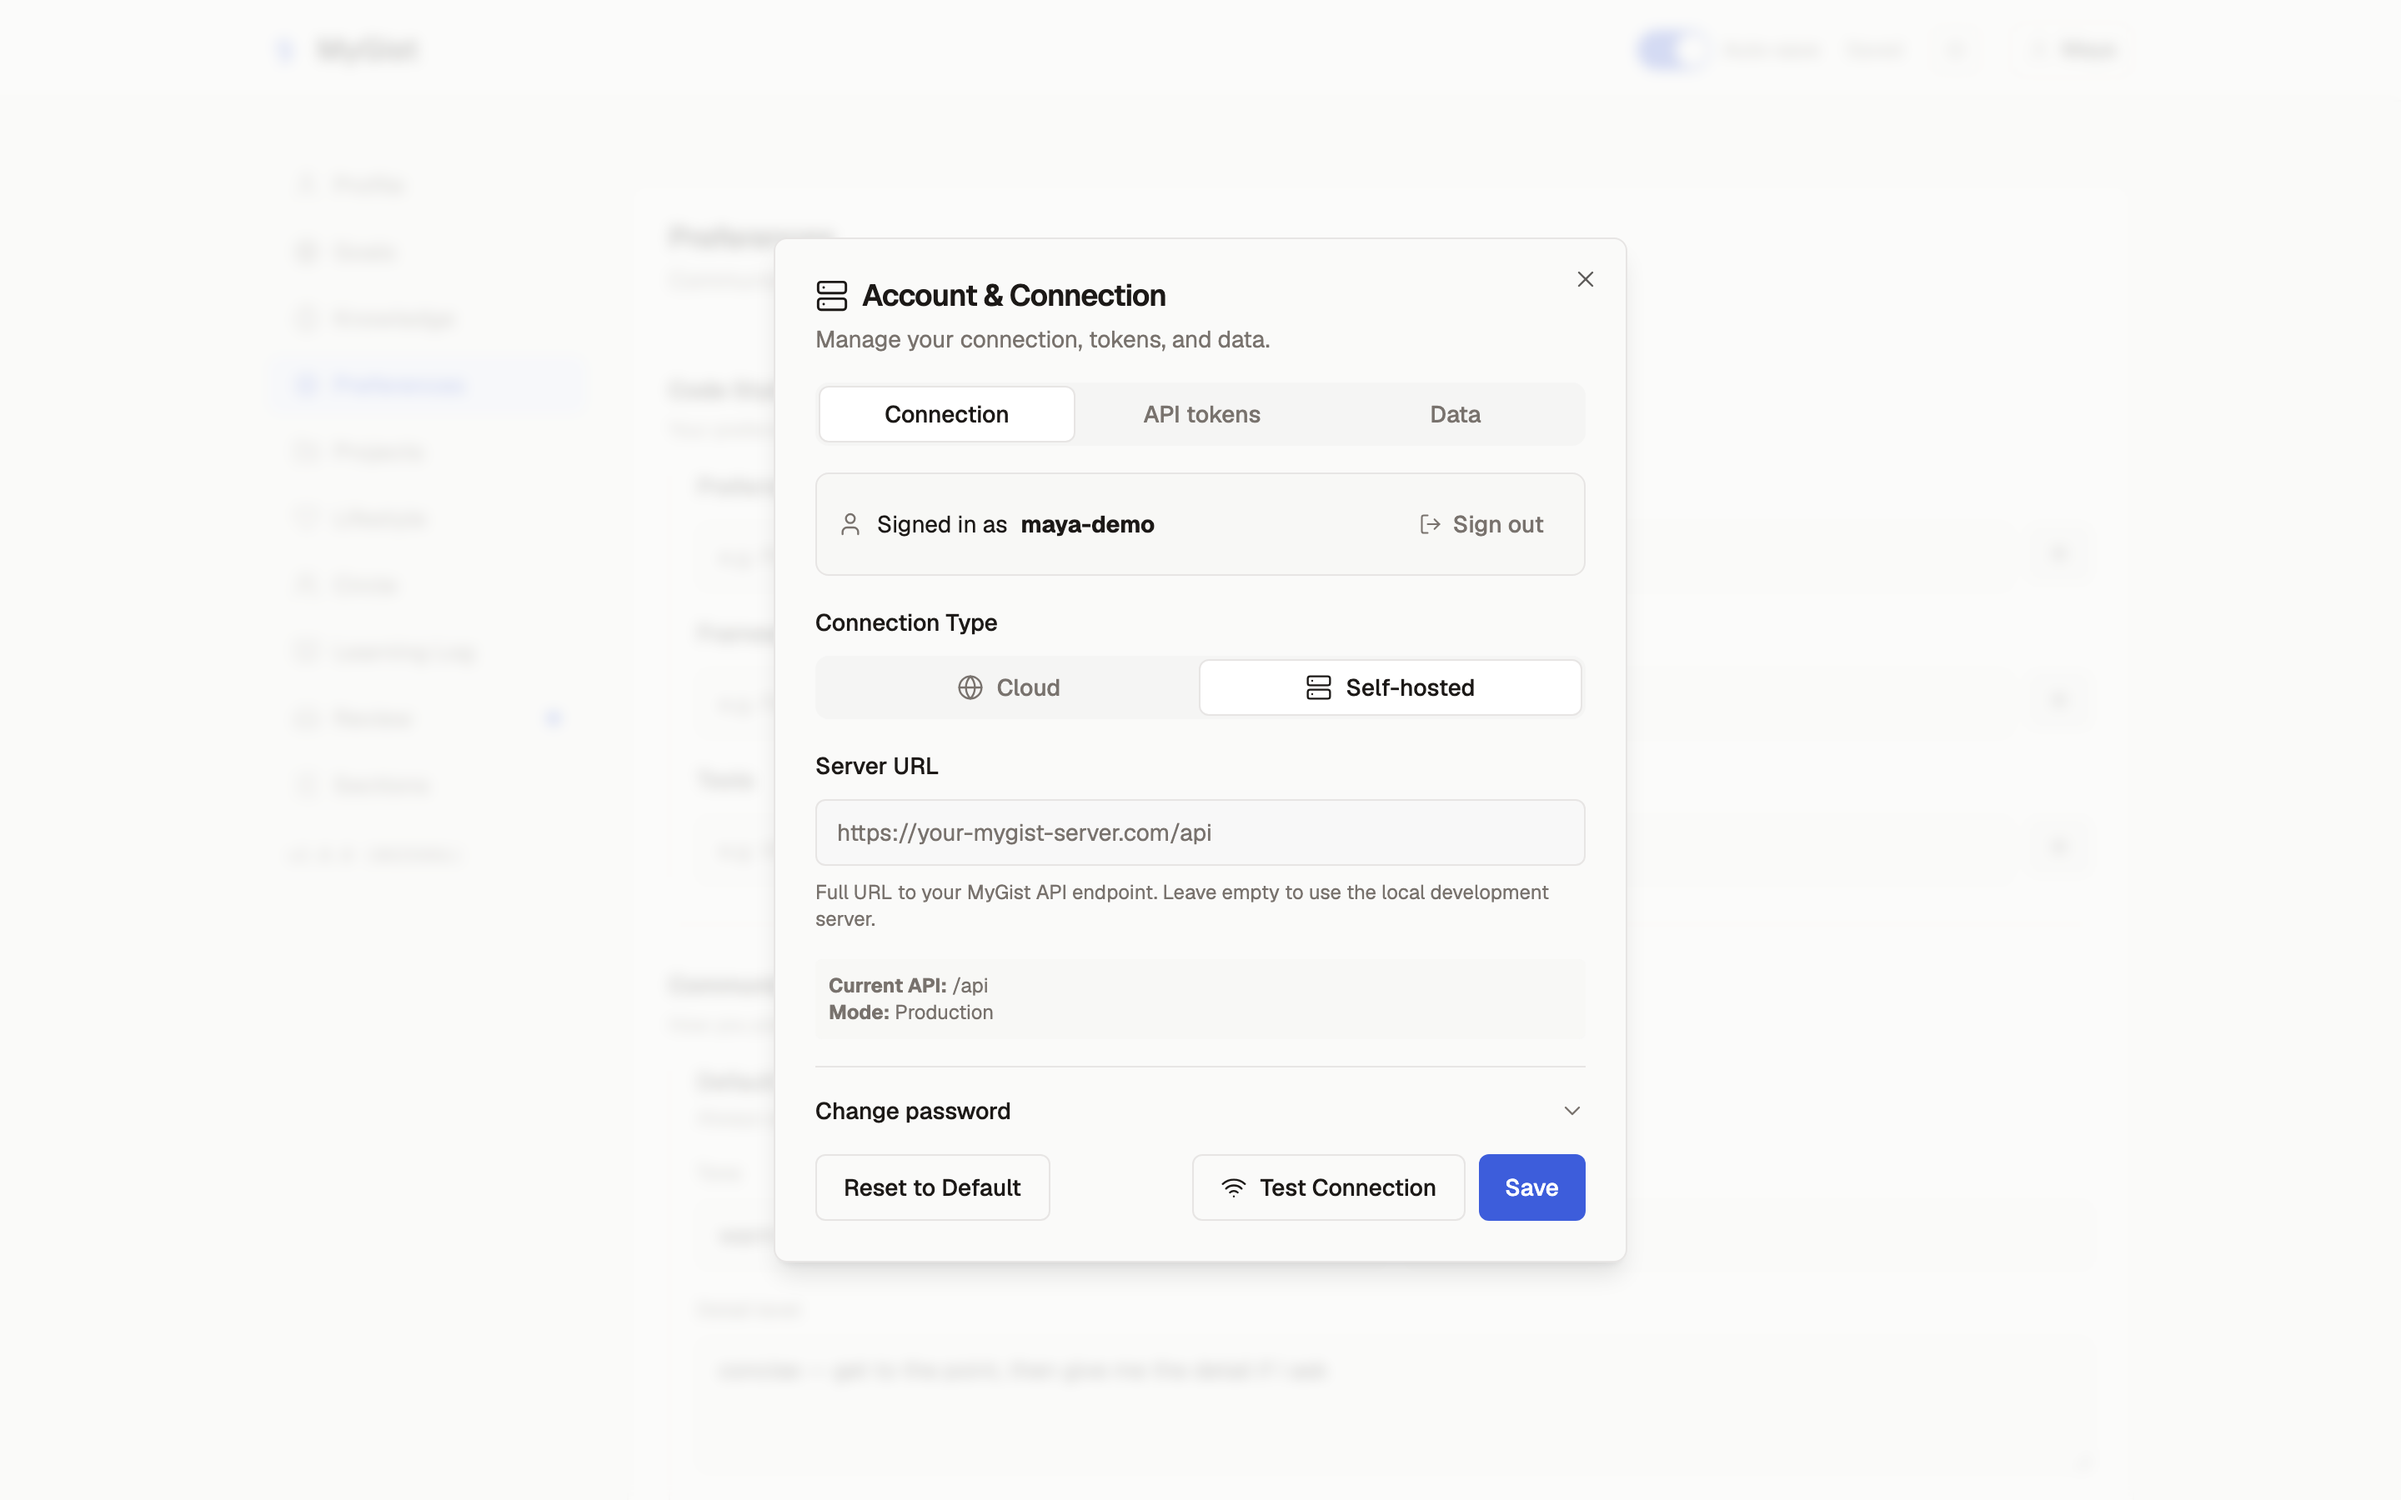
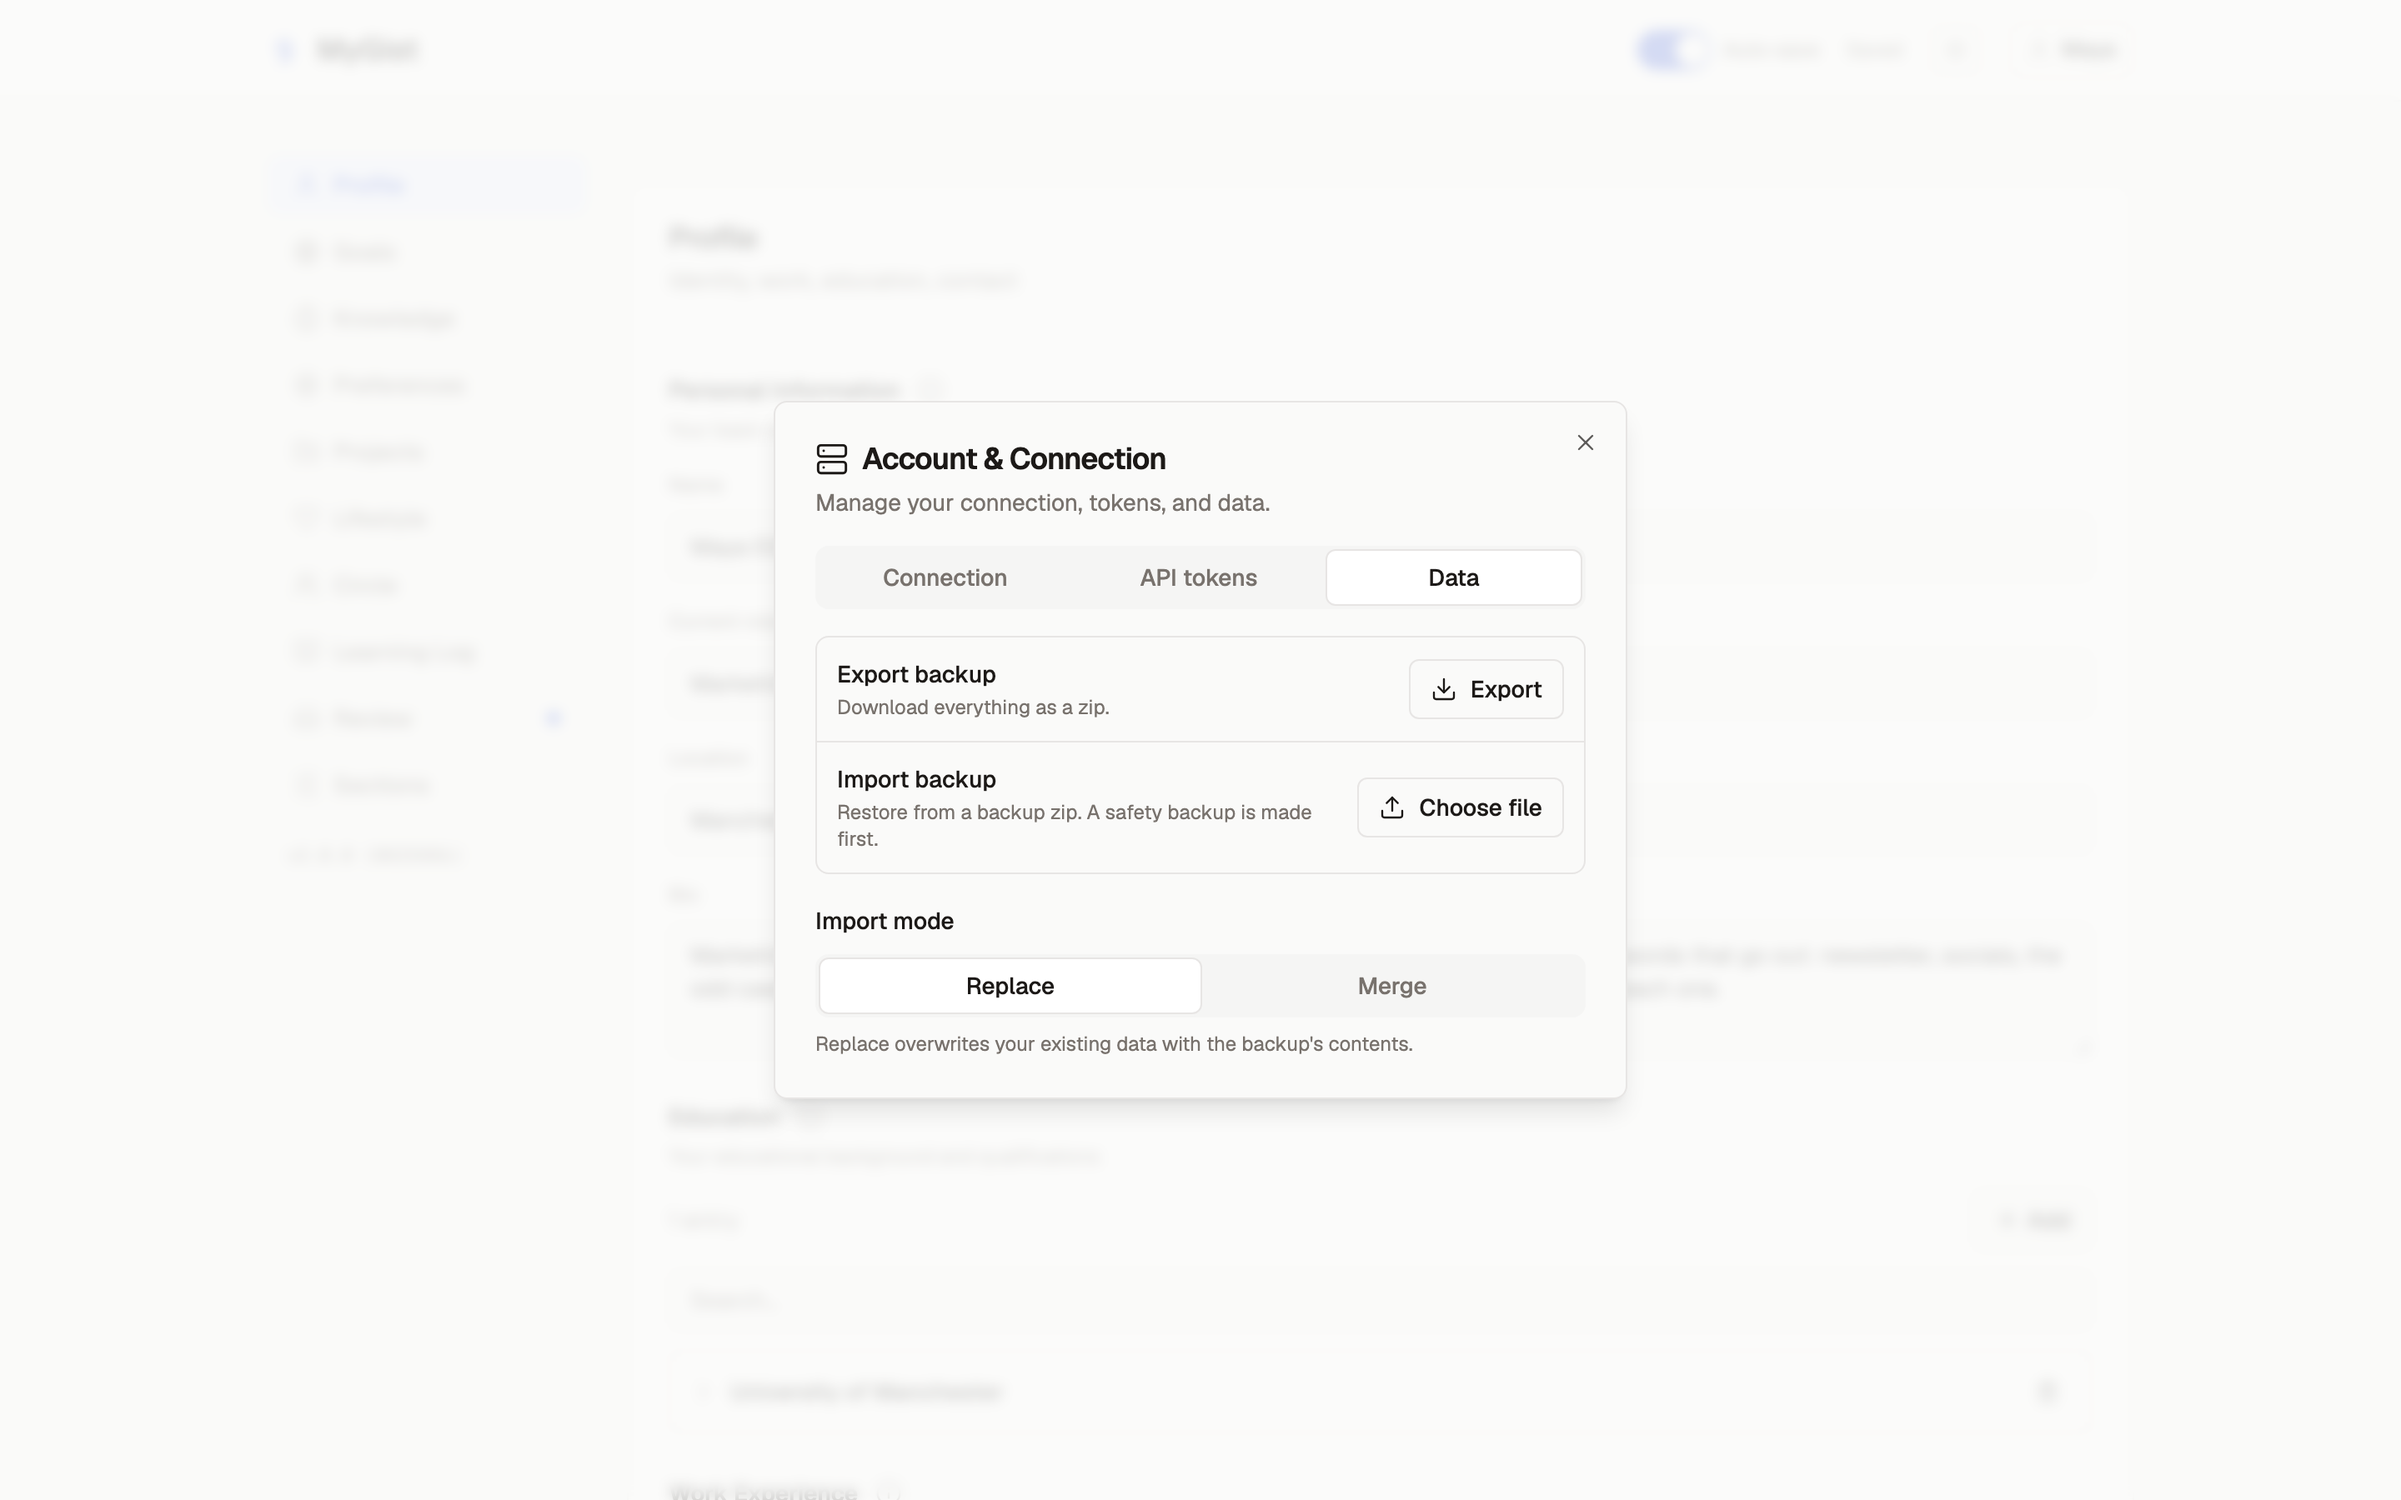
docs: persona card is a form and export is a zip, both from the captures
Two more inventions caught, this time by the Task 9 implementer asking
instead of building. Same class as the scope selector and the proposal
card's third button.

The persona card had a WRITES/USES/GOAL/LEARNS summary layout that exists
nowhere. The Profile section is a form. Maya's tone rules and goals are real
data but they live in Preferences and Goals, not on one card.

The export view was specified as readable JSON with a Download button. It is
a settings dialog whose export produces a zip. The first capture of that
screen caught the Connection tab; recaptured on Data, where Export actually
lives, so the feature survives with the right shape.

diff --git a/docs/superpowers/plans/2026-08-04-mygist-landing-figma.md b/docs/superpowers/plans/2026-08-04-mygist-landing-figma.md
@@ -744,17 +744,24 @@ A browser frame based on Magic UI's `safari`, with its macOS grey chrome recolou
 
 - [ ] **Step 2: Build Persona card**
 
-The editor's own card, extracted for use outside the frame. Radius `radius/24` outer with `radius/16` inner rows — concentric, per the shape rule. Content, verbatim:
+The editor's **Profile** section, transcribed from `design/screens/editor-persona.png`. Radius `radius/12` outer, `radius/8` inner rows — concentric, one step down from the original 24/16.
+
+Labelled fields with their captured values:
 
 ```
-Maya Ellis
-Marketing assistant · Manchester
-
-WRITES        British English, no exclamation marks, never "delve"
-USES          Three assistants a day, for drafts, research and meeting notes
-GOAL          Move into brand strategy within two years
-LEARNS        Examples first, theory later
+Name             Maya Ellis
+Preferred name   Maya
+Current role     Marketing Assistant
+Organisation     Northgate Studio
+Location         Manchester, UK
+Nationality      British
+Bio              Marketing assistant, six months out of an English and Media
+                 degree. I write most of the words that go out: newsletter,
+                 socials, the odd case study. I run three assistants a day and
+                 got tired of explaining my tone rules to each one.
 ```
+
+**Do not build a `WRITES / USES / GOAL / LEARNS` summary.** An earlier draft of this plan specified one and no such view exists; the Profile section is a form. Maya's tone rules and goals are real, but they live in the Preferences and Goals sections.
 
 - [ ] **Step 3: Build Client chip**
 
@@ -782,7 +789,25 @@ Evidence    "I've got the newsletter now, so that's on me from June."
 
 - [ ] **Step 6: Build Export view**
 
-Readable JSON in Geist Mono `type/13` on `color/muted`, showing a fragment of Maya's persona, with a `Download` secondary Button.
+The **Account & Connection** dialog on its **Data** tab, transcribed from `design/screens/editor-export.png`. Radius `radius/12`, fill `color/card`, shadow `lift` (it is a modal).
+
+```
+Account & Connection
+Manage your connection, tokens, and data.
+[ Connection ]  [ API tokens ]  [ Data ]        <- Data selected
+
+Export backup                                   [ Export ]
+Download everything as a zip.
+
+Import backup                                   [ Choose file ]
+Restore from a backup zip. A safety backup is made first.
+
+Import mode
+[ Replace ]  [ Merge ]
+Replace overwrites your existing data with the backup's contents.
+```
+
+**Not a JSON viewer.** An earlier draft specified "readable JSON in Geist Mono with a Download button". The real export is a **zip**, from a settings dialog. The first capture of this screen caught the Connection tab by mistake; the Data tab is the right one.
 
 - [ ] **Step 7: Verify against reality, not against this plan**
 

diff --git a/docs/superpowers/specs/2026-08-04-mygist-landing-design.md b/docs/superpowers/specs/2026-08-04-mygist-landing-design.md
@@ -287,7 +287,12 @@ mirrors its variant names, so Code Connect is close to free later.
 drawn from the running MyGist UI rather than invented for the page.
 
 10. Product mockup — `safari` frame, chrome recoloured, holding the editor with Maya's persona open. The hero anchor
-11. Persona card — the editor's own card, extracted for use outside the frame. Concentric radii, 24px outer and 16px inner rows
+11. Persona card — the editor's **Profile** section as captured: labelled fields for Name, Preferred name, Current role, Organisation, Location and Nationality, plus the Bio paragraph. Concentric radii, 12px outer and 8px inner rows
+
+    An earlier draft of this spec invented a `WRITES / USES / GOAL / LEARNS`
+    summary layout. No such view exists — the Profile section is a form. Maya's
+    tone rules and goals are real data, but they live in the Preferences and Goals
+    sections, not on one card.
 12. Client chip — pill. Contents pending the client-list answer below
 13. Scope payload — the editor's **Preferences** section as captured, carrying Maya's tone rules and dislikes, with a Geist Mono label naming the scope that returned it
 
@@ -298,7 +303,11 @@ drawn from the running MyGist UI rather than invented for the page.
     this spec invented a segmented control. Showing what a scope *returns* is
     both true and the more persuasive half of the story anyway.
 14. Proposal card — reasoning, quote from Maya, Approve and Reject. **Two buttons, not three** — verified against the running app, which has no Edit action
-15. Export view — readable JSON with a Download button
+15. Export view — the **Account & Connection** dialog on its **Data** tab, as captured: `Export backup / Download everything as a zip / [Export]`, with Import beneath it
+
+    Not a JSON viewer. An earlier draft of this spec described "readable JSON with
+    a Download button"; the real surface is a settings dialog and the export is a
+    **zip**, not a JSON view. Verified against `design/screens/editor-export.png`.
 
 ## Page structure
 
